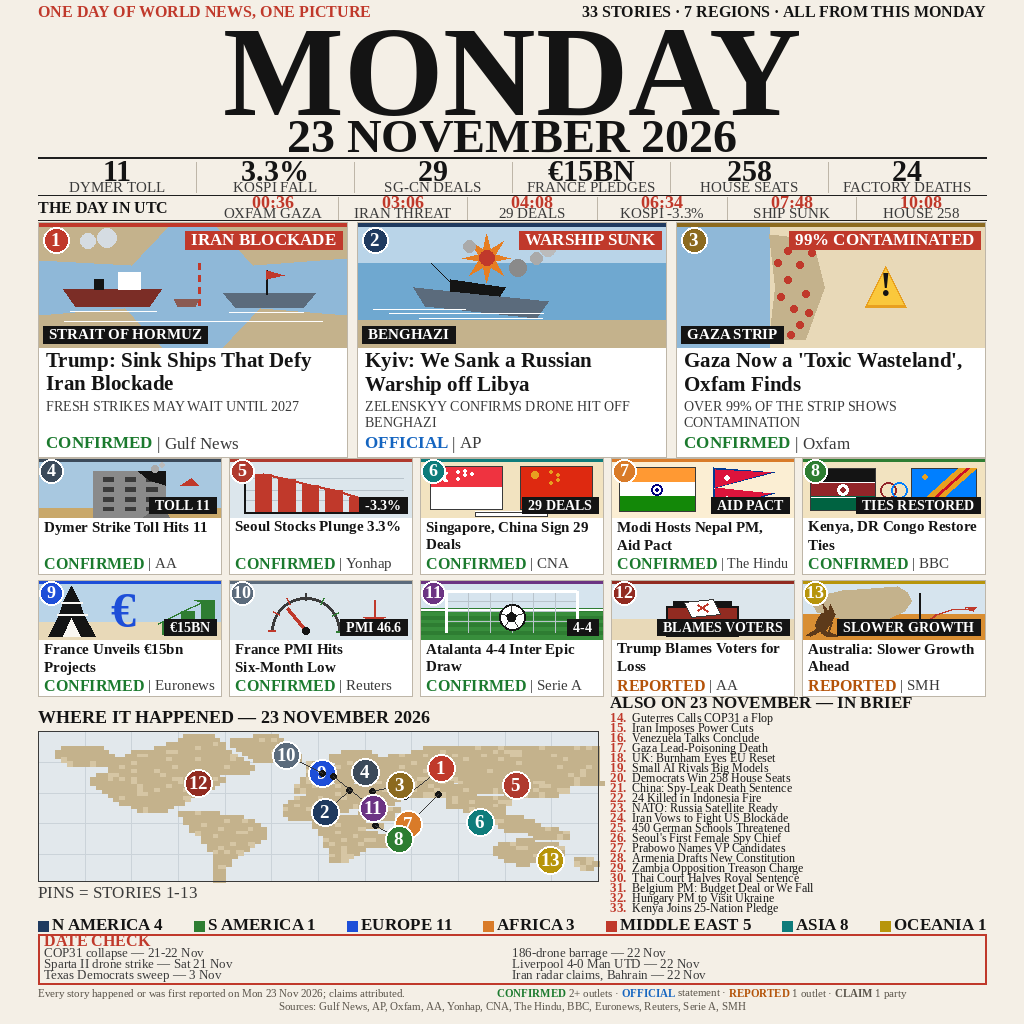
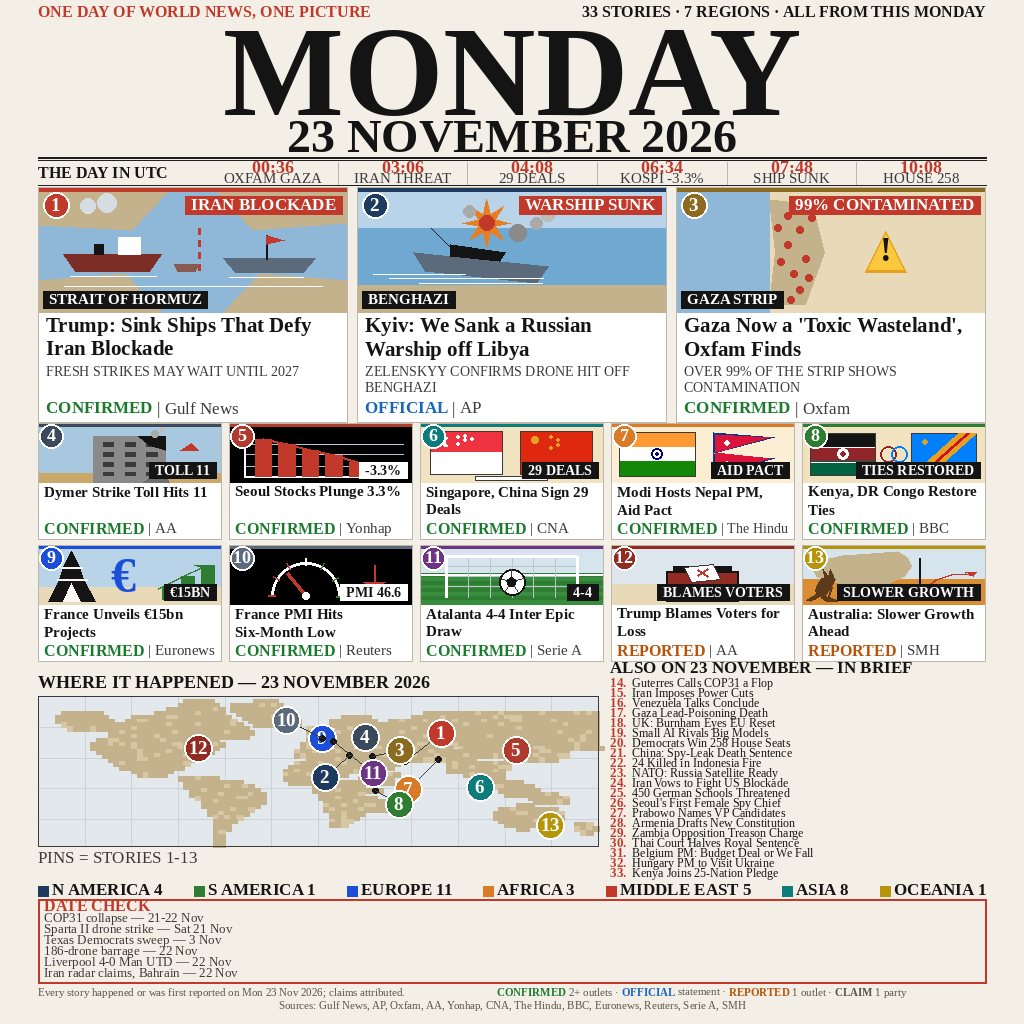
news-image-20261123 v12: DATE CHECK one column, KPI strip removed, black Seoul/PMI scenes
(1) DATE CHECK one column, 6 rows (John 22:34 WIB — 'Satu kolom, 6 baris'):
the 2-column split was my reading of his 22:10 'rapikan' order; he asked
why it was split, so it goes back to a single list. Box 50 -> 84.
(2) KPI strip removed (John 22:34 WIB — 'Kita cukup pakai the day aja,
hapus yang dibawah 23 november 2026'): the 6 big numbers + labels below
'23 NOVEMBER 2026' are gone; masthead stays, timeline moves up to sit
directly below the masthead rule. The 6 numbers still appear as art value
chips + in headlines. Freed 34px + 1px gap exactly funds the DATE CHECK
growth; map/ALSO zone stays 219; bottom 1014 -> 1013.
(3) Seoul (card 5) + France PMI (card 10) scene backgrounds BLACK
(John 22:33 WIB): dark elements flip to white (axis, gauge arc, ticks,
centre disc); red bars / downtrend line / needle stay red; value chips
invert to white chips with dark text.

diff --git a/render.py b/render.py
@@ -1,27 +1,37 @@
-# news-image-20261123 v11 — "The World in One Day", footer + DATE CHECK +
-# colour (John's orders 22:09–22:16 WIB, approved to build 22:23 WIB).
+# news-image-20261123 v12 — "The World in One Day", DATE CHECK one column +
+# KPI strip removed + black Seoul/PMI scenes (John's orders 22:33–22:34 WIB).
 #
-# v11 keeps the v7 top-1 pattern (render outside the harness with PIL and a
+# v12 keeps the v7 top-1 pattern (render outside the harness with PIL and a
 # REAL serif font; main.ts only copies entry.png) and the v7 big art (lead
 # art 120px / card 235px, grid art 55px / card 116px, banner + place labels
 # inside the art), plus the v8 typography (headlines Title Case, sublines ALL
-# CAPS, badges coloured per type, sources Title Case) and the v9/v10 DATE
-# CHECK (title just "DATE CHECK", 6 short items). What changes in v11:
-# (1) footer becomes 3 segments on 2 lines — left "Every story happened...",
-# centre legend, right "Sources: ..." (one line is impossible at readable
-# size: the three segments measure 1,675px at 15px vs 948px width);
-# (2) DATE CHECK items become a tidy 2-column x 3-row grid (v10's 3 run-on
-# rows overflowed ~3px past the box); (3) legend descriptors lowercase
-# ("CONFIRMED 2+ outlets ..."), only badge words caps; (4) footer sits 5px
-# below the DATE CHECK red border (v10's legend was ~3px below it);
-# (5) legend badge words coloured (CONFIRMED green, OFFICIAL blue, REPORTED
-# amber, same as the card badges); (6) top kicker RED; (7) scenes get
-# colourful backgrounds (Seoul chart proper, kangaroo in Australia, green
-# pitch + goal + ball for the football draw). The stored story data is NOT
-# changed — casing/colour is applied at render time only. Content is the
-# v4/v5/v6/v7 23 Nov set, unchanged: 13 illustrated cards, 20 ALSO, 6 KPIs,
-# UTC timeline, 7-region bar, world map with 13 numbered pins, DATE CHECK.
-# No new research, no changed numbers.
+# CAPS, badges coloured per type, sources Title Case) and the v11 footer
+# (3 segments on 2 lines, legend lowercase + colours, 5px gap below the
+# DATE CHECK red border, red kicker) and v11 scene colours (kangaroo in
+# Australia, green pitch + goal + ball). What changes in v12:
+# (1) DATE CHECK is ONE column of 6 rows (John 22:34 WIB — "Satu kolom,
+# 6 baris"). The 2-column split was my reading of his 22:10 "rapikan"
+# order; he asked why it was split, so it goes back to a single list.
+# The box grows 50 → 84 (6 rows at 13px/11px spacing, last row ends ~y+81,
+# 3px margin — must not overflow, unlike v10's ~3px overflow).
+# (2) The KPI strip is GONE (John 22:34 WIB — "Kita cukup pakai the day
+# aja, hapus yang dibawah 23 november 2026"): the 6 big numbers + labels
+# below "23 NOVEMBER 2026" are deleted; the masthead (MONDAY + date) stays,
+# the timeline moves up to sit directly below the masthead rule. The 6
+# numbers still appear on the page as art value chips + in headlines.
+# Removing the KPI zone frees 34px + its 1px gap = 35px, which exactly
+# funds the DATE CHECK growth (+34px); the map/ALSO zone stays 219 and
+# the bottom moves 1014 → 1013.
+# (3) Seoul (card 5, kospi) and France PMI (card 10, pmi) scene
+# backgrounds are BLACK (John 22:33 WIB — "kasih hitam aja backgroundnya").
+# Dark elements flip to white so they stay readable on black (axis, gauge
+# arc, ticks, centre disc); the red bars / downtrend line / needle stay
+# red; the value chips invert to white chips with dark text (a black chip
+# would vanish on black). The stored story data is NOT changed — casing/
+# colour is applied at render time only. Content is the v4/v5/v6/v7 23 Nov
+# set, unchanged: 13 illustrated cards, 20 ALSO, UTC timeline, 7-region
+# bar, world map with 13 numbered pins, DATE CHECK. No new research, no
+# changed numbers.
 #
 # Deterministic: fixed LCG seed 1337 for the map grain, no randomness, no
 # network, no time dependence. Run: python3 render.py [outdir]
@@ -426,11 +436,13 @@ def draw_scene(d, scene, bx, by, bw, bh, accent):
         # A market in free fall: descending bars, a steep red line, arrow.
         # v11: proper chart — blue-steel panel, gridlines, 6 descending
         # bars, downtrend line with arrowhead (was 4 plain bars on PAPER2).
-        rect(d, bx, by, bw, bh, fill=hx("#DCE6EC"))
+        # v12: BLACK background (John 22:33 WIB); the INK axis becomes
+        # WHITE so it reads on black (bars stay red, gridlines light grey).
+        rect(d, bx, by, bw, bh, fill=hx("#000000"))
         for gy in [0.3, 0.5, 0.7]:
             hline(d, round(X(0.08)), round(Y(gy)), round(bw * 0.88), hx("#B9C4CC"), 1)
-        vline(d, round(X(0.08)), round(Y(0.1)), round(bh * 0.8), INK, 2)
-        hline(d, round(X(0.08)), round(Y(0.9)), round(bw * 0.88), INK, 2)
+        vline(d, round(X(0.08)), round(Y(0.1)), round(bh * 0.8), WHITE, 2)
+        hline(d, round(X(0.08)), round(Y(0.9)), round(bw * 0.88), WHITE, 2)
         tops = []
         for i, bhf in enumerate([0.68, 0.58, 0.48, 0.38, 0.26, 0.14]):
             bx0 = X(0.14 + i * 0.13)
@@ -527,21 +539,24 @@ def draw_scene(d, scene, bx, by, bw, bh, accent):
     elif scene == "pmi":
         # A gauge dial: red low zone left, green high zone right, needle low.
         # v11: blue-steel panel background (was PAPER2).
-        rect(d, bx, by, bw, bh, fill=hx("#DCE6EC"))
+        # v12: BLACK background (John 22:33 WIB); the arc, the neutral
+        # ticks and the centre disc flip from dark to WHITE so they read on
+        # black (red/green ticks and the red needle stay as they are).
+        rect(d, bx, by, bw, bh, fill=hx("#000000"))
         gcx, gcy = X(0.42), Y(0.86)
         gr = bh * 0.62
-        d.arc([gcx - gr, gcy - gr, gcx + gr, gcy + gr], 180, 360, fill=INK2, width=max(2, round(bh * 0.05)))
+        d.arc([gcx - gr, gcy - gr, gcx + gr, gcy + gr], 180, 360, fill=WHITE, width=max(2, round(bh * 0.05)))
         for k in range(7):
             ang = math.pi - (k * math.pi) / 6
             x1 = gcx + math.cos(ang) * (gr - bh * 0.06)
             y1 = gcy - math.sin(ang) * (gr - bh * 0.06)
             x2 = gcx + math.cos(ang) * (gr + bh * 0.06)
             y2 = gcy - math.sin(ang) * (gr + bh * 0.06)
-            col = RED if k <= 2 else (hx("#2E7D32") if k >= 4 else INK2)
+            col = RED if k <= 2 else (hx("#2E7D32") if k >= 4 else WHITE)
             d.line([(x1, y1), (x2, y2)], fill=col, width=2)
         nang = math.pi - (math.pi * 0.28)
         d.line([(gcx, gcy), (gcx + math.cos(nang) * gr * 0.85, gcy - math.sin(nang) * gr * 0.85)], fill=RED, width=max(2, round(bh * 0.05)))
-        disc(d, round(gcx), round(gcy), max(2, bh * 0.07), INK)
+        disc(d, round(gcx), round(gcy), max(2, bh * 0.07), WHITE)
         d.line([(X(0.8), Y(0.3)), (X(0.8), Y(0.66))], fill=RED, width=max(2, round(bh * 0.04)))
         tri(d, X(0.8), Y(0.72), X(0.74), Y(0.6), X(0.86), Y(0.6), RED)
     elif scene == "draw44":
@@ -636,12 +651,12 @@ CARDS = [
     {"n": 2, "headline": "KYIV: WE SANK A RUSSIAN WARSHIP OFF LIBYA", "sub": "ZELENSKYY CONFIRMS DRONE HIT OFF BENGHAZI", "badge": "OFFICIAL", "source": "AP", "scene": "sinking", "accent": hx("#1F3A5F"), "lat": 32.1, "lon": 20.1, "dx": -24, "dy": 22, "banner": "WARSHIP SUNK", "place": "BENGHAZI"},
     {"n": 3, "headline": "GAZA NOW A 'TOXIC WASTELAND', OXFAM FINDS", "sub": "OVER 99% OF THE STRIP SHOWS CONTAMINATION", "badge": "CONFIRMED", "source": "OXFAM", "scene": "gaza", "accent": hx("#8C6A1F"), "lat": 31.5, "lon": 34.5, "dx": 28, "dy": -6, "banner": "99% CONTAMINATED", "place": "GAZA STRIP"},
     {"n": 4, "headline": "DYMER STRIKE TOLL HITS 11", "sub": "RESCUERS STILL SEARCH RUBBLE IN DYMER", "badge": "CONFIRMED", "source": "AA", "scene": "dymer", "accent": hx("#3B4A5A"), "lat": 50.5, "lon": 30.5, "dx": 0, "dy": 0, "value": "TOLL 11"},
-    {"n": 5, "headline": "SEOUL STOCKS PLUNGE 3.3%", "sub": "KOSPI SLIDES AS TECH SELL-OFF SPREADS", "badge": "CONFIRMED", "source": "YONHAP", "scene": "kospi", "accent": hx("#B03A2E"), "lat": 37.5, "lon": 127, "dx": 0, "dy": 0, "value": "-3.3%"},
+    {"n": 5, "headline": "SEOUL STOCKS PLUNGE 3.3%", "sub": "KOSPI SLIDES AS TECH SELL-OFF SPREADS", "badge": "CONFIRMED", "source": "YONHAP", "scene": "kospi", "accent": hx("#B03A2E"), "lat": 37.5, "lon": 127, "dx": 0, "dy": 0, "value": "-3.3%", "dark_art": True},
     {"n": 6, "headline": "SINGAPORE, CHINA SIGN 29 DEALS", "sub": "TOP BILATERAL FORUM YIELDS 29 PACTS", "badge": "CONFIRMED", "source": "CNA", "scene": "deals", "accent": hx("#0E7C7B"), "lat": 1.3, "lon": 104, "dx": 0, "dy": 0, "value": "29 DEALS"},
     {"n": 7, "headline": "MODI HOSTS NEPAL PM, AID PACT", "sub": "RS 15,000-CRORE PACKAGE, NEW TRAIN LINK", "badge": "CONFIRMED", "source": "THE HINDU", "scene": "aid", "accent": hx("#D97B29"), "lat": 28.6, "lon": 77, "dx": -30, "dy": 30, "value": "AID PACT"},
     {"n": 8, "headline": "KENYA, DR CONGO RESTORE TIES", "sub": "RUTO, TSHISEKEDI END YEARS OF TENSION", "badge": "CONFIRMED", "source": "BBC", "scene": "ties", "accent": hx("#2E7D32"), "lat": -1.3, "lon": 36.8, "dx": 24, "dy": 14, "value": "TIES RESTORED"},
     {"n": 9, "headline": "FRANCE UNVEILS \u20ac15BN PROJECTS", "sub": "NEARLY \u20ac15BN PLEDGED AT PARIS SUMMIT", "badge": "CONFIRMED", "source": "EURONEWS", "scene": "france15", "accent": hx("#1D4ED8"), "lat": 48.85, "lon": 2.35, "dx": 0, "dy": 0, "value": "\u20ac15BN"},
-    {"n": 10, "headline": "FRANCE PMI HITS SIX-MONTH LOW", "sub": "SERVICES PMI 46.6; EUROZONE HOLDS STEADY", "badge": "CONFIRMED", "source": "REUTERS", "scene": "pmi", "accent": hx("#5B6B7C"), "lat": 48.85, "lon": 2.35, "dx": -36, "dy": -18, "value": "PMI 46.6"},
+    {"n": 10, "headline": "FRANCE PMI HITS SIX-MONTH LOW", "sub": "SERVICES PMI 46.6; EUROZONE HOLDS STEADY", "badge": "CONFIRMED", "source": "REUTERS", "scene": "pmi", "accent": hx("#5B6B7C"), "lat": 48.85, "lon": 2.35, "dx": -36, "dy": -18, "value": "PMI 46.6", "dark_art": True},
     {"n": 11, "headline": "ATALANTA 4-4 INTER EPIC DRAW", "sub": "EIGHT-GOAL THRILLER IN BERGAMO", "badge": "CONFIRMED", "source": "SERIE A", "scene": "draw44", "accent": hx("#6C3483"), "lat": 45.7, "lon": 9.7, "dx": 40, "dy": 32, "value": "4-4"},
     {"n": 12, "headline": "TRUMP BLAMES VOTERS FOR LOSS", "sub": "SAYS VOTERS IGNORED HIS IRAN WARNINGS", "badge": "REPORTED", "source": "AA", "scene": "voters", "accent": hx("#922B21"), "lat": 38.9, "lon": -77, "dx": 0, "dy": 0, "value": "BLAMES VOTERS"},
     {"n": 13, "headline": "AUSTRALIA: SLOWER GROWTH AHEAD", "sub": "CHALMERS: JOBS, PRICES UNDER PRESSURE", "badge": "REPORTED", "source": "SMH", "scene": "aus", "accent": hx("#B7950B"), "lat": -35.3, "lon": 149, "dx": 0, "dy": 0, "value": "SLOWER GROWTH"},
@@ -672,15 +687,6 @@ ALSO = [
 ]
 ALSO_SOURCES = "ALSO SOURCES: UN NEWS \u00b7 THE NATIONAL \u00b7 AA \u00b7 THE GUARDIAN \u00b7 MIT NEWS \u00b7 AFP \u00b7 SCMP \u00b7 AP \u00b7 REUTERS \u00b7 DAILY NATION \u00b7 SOVEREIGN CREDITOR REVIEW \u00b7 POLIDATO"
 
-# The day in numbers: 6 KPI cells.
-KPIS = [
-    ("11", "DYMER TOLL"),
-    ("3.3%", "KOSPI FALL"),
-    ("29", "SG-CN DEALS"),
-    ("\u20ac15BN", "FRANCE PLEDGES"),
-    ("258", "HOUSE SEATS"),
-    ("24", "FACTORY DEATHS"),
-]
 
 # The day in UTC: six timed moments from the research (UTC times as reported).
 TIMELINE = [
@@ -736,7 +742,7 @@ REGION_COLORS = [hx("#1F3A5F"), hx("#2E7D32"), hx("#1D4ED8"), hx("#D97B29"), hx(
 # ---------------------------------------------------------------- layout
 # GRID first: every zone rect is computed here, then the render pass reads
 # the layout only. v8 budget: the lead cards are 235 tall (art 120) and the
-# grid cards 116 (art 55), so the masthead/KPI/timeline are slightly
+# grid cards 116 (art 55), so the masthead/timeline are slightly
 # smaller, the map is 150 tall and the ALSO list runs at 12px. The masthead
 # zone is 157 tall so MONDAY has ~13px of breathing room below the kicker
 # line (v8 fix); the top margin is 6 and the gaps are 1 to pay for it. The
@@ -745,21 +751,21 @@ REGION_COLORS = [hx("#1F3A5F"), hx("#2E7D32"), hx("#1D4ED8"), hx("#D97B29"), hx(
 # count it stated is already in the top kicker, so the line was redundant.
 # The freed 12px move from the KPI zone (46 → 34) to the masthead zone
 # (157 → 169) for more breathing room; the page still ends at y=1014.
-# v11 budget: the footer needs 2 lines (25 tall) and the DATE CHECK grid
-# needs 50, so the page pays from the masthead (169 → 155; its content ends
-# at y+153, so the bottom rule sits 2px above the zone end — the 13px
-# breathing room ABOVE is untouched), the top margin (6 → 4), the grid row
-# gap (8 → 6), the map/ALSO zone (220 → 219; last ALSO item ends y+218),
-# the region bar (18 → 16; text ends ~y+14), and the footer gap is an
-# explicit y += 5 (5px below the DATE CHECK red border, John 22:12).
-# Recount: 4 + 155+1 + 34+1 + 26+1 + 235+1 + 238+1 + 219+1 + 16+1 + 50+5
-# + 25 = bottom 1014. If the budget ever overflows, main() raises instead
-# of clipping.
+# v12 budget: the KPI strip is GONE (John 22:34 WIB — "Kita cukup pakai
+# the day aja, hapus yang dibawah 23 november 2026"), so the timeline moves
+# up to sit directly below the masthead rule. Removing the KPI zone frees
+# 34px + its 1px gap = 35px; the DATE CHECK one-column box takes +34px
+# (50 → 84, 6 rows at 13px/11px spacing, last row ends ~y+81, 3px margin),
+# so the map/ALSO zone stays 219 and the bottom moves 1014 → 1013.
+# Recount: 4 + 155+1 + 26+1 + 235+1 + 238+1 + 219+1 + 16+1 + 84+5
+# + 25 = bottom 1013 (≤ 1016). If the budget ever overflows, main() raises
+# instead of clipping.
 def build_layout():
     y = 4
     gap = 1
     masthead = (MARGIN, y, CW, 155); y += 155 + gap
-    kpi = (MARGIN, y, CW, 34); y += 34 + gap
+    # v12: no KPI strip (John 22:34 WIB) — the timeline sits directly
+    # below the masthead rule.
     timeline = (MARGIN, y, CW, 26); y += 26 + gap
     lead_w = (CW - 2 * 10) // 3
     leads = [(MARGIN + i * (lead_w + 10), y, lead_w, 235) for i in range(3)]
@@ -774,10 +780,10 @@ def build_layout():
     also_zone = (MARGIN + 560 + 12, y, CW - 560 - 12, 219)
     y += 219 + gap
     region = (MARGIN, y, CW, 16); y += 16 + gap
-    datecheck = (MARGIN, y, CW, 50); y += 50 + 5
+    datecheck = (MARGIN, y, CW, 84); y += 84 + 5
     footer = (MARGIN, y, CW, 25)
     bottom = y + 25
-    return {"masthead": masthead, "kpi": kpi, "timeline": timeline, "leads": leads,
+    return {"masthead": masthead, "timeline": timeline, "leads": leads,
             "grid": grid, "map_zone": map_zone, "also_zone": also_zone,
             "region": region, "datecheck": datecheck, "footer": footer, "bottom": bottom}
 
@@ -796,18 +802,6 @@ def render_masthead(d, z):
     text_c(d, MARGIN + CW / 2, dy, "23 NOVEMBER 2026", fb(dsize), INK)
     dcap = dsize * 0.688
     hline(d, x, dy + dcap + 3, w, RULE, 2)
-
-def render_kpi(d, z):
-    x, y, w, h = z
-    # v9: the heading line is gone (redundant with the top kicker). Only the
-    # 6 numbers + their labels remain, shifted up into the freed space.
-    cell_w = CW / len(KPIS)
-    for i, (value, label) in enumerate(KPIS):
-        cx = MARGIN + i * cell_w + cell_w / 2
-        if i > 0:
-            vline(d, round(MARGIN + i * cell_w), y + 2, 30, CARD_LINE, 1)
-        text_c(d, cx, y + 1, value, fb(30), INK)
-        text_c(d, cx, y + 22, label, fr(15), INK2)
 
 def render_timeline(d, z):
     x, y, w, h = z
@@ -892,8 +886,14 @@ def render_grid_card(d, z, card):
     ax, ay, aw, ah = x + 1, y + 4, w - 2, 55
     draw_scene(d, card["scene"], ax, ay, aw, ah, card["accent"])
     # Value chip, bottom-right of the art (top-1's "$60,190" / "M6.7" style).
+    # v12: on a black art background (Seoul, France PMI — dark_art) the chip
+    # inverts to a white chip with dark text; a black chip would vanish on
+    # black.
     vf = fb(14)
-    chip(d, ax + aw - 4 - chip_w(card["value"], vf), ay + ah - 4 - chip_h(vf), card["value"], vf, WHITE, INK)
+    if card.get("dark_art"):
+        chip(d, ax + aw - 4 - chip_w(card["value"], vf), ay + ah - 4 - chip_h(vf), card["value"], vf, INK, WHITE)
+    else:
+        chip(d, ax + aw - 4 - chip_w(card["value"], vf), ay + ah - 4 - chip_h(vf), card["value"], vf, WHITE, INK)
     disc(d, x + 13, y + 13, 12, card["accent"])
     ring(d, x + 13, y + 13, 12, WHITE, 2)
     text_c(d, x + 13, y + 6, str(card["n"]), fb(18), WHITE)
@@ -975,15 +975,14 @@ def render_datecheck(d, z):
     # The 6 short past-date items stay; no explanatory paragraph in the
     # reference's long style (explicitly NOT wanted).
     text(d, x + 6, y + 1, "DATE CHECK", fb(16), RED)
-    # v11: tidy 2-column x 3-row grid (John 22:10 WIB). v10's 3 run-on rows
-    # joined by "·" were messy and row 3 overflowed ~3px past the box.
-    # Column 1 = items 1-3, column 2 = items 4-6; last row ends ~y+48, box
-    # ends y+50 (2px margin — must not overflow).
-    col2_x = x + w // 2
-    for r in range(3):
+    # v12: one column, 6 rows (John 22:34 WIB — "Satu kolom, 6 baris").
+    # The 2-column split was my reading of his 22:10 "rapikan" order; he
+    # asked why it was split, so it goes back to a single list. Rows at
+    # y+14 + r*11; last row ends ~y+81, box ends y+84 (3px margin — must
+    # not overflow, unlike v10's ~3px overflow).
+    for r in range(6):
         ty = y + 14 + r * 11
         text(d, x + 6, ty, sentence_case(LEFT_OUT[r]), fr(13), INK2)
-        text(d, col2_x, ty, sentence_case(LEFT_OUT[r + 3]), fr(13), INK2)
 
 def render_footer(d, z):
     x, y, w, h = z
@@ -1013,8 +1012,6 @@ def main():
         raise RuntimeError(f"expected 13 cards, got {len(CARDS)}")
     if len(ALSO) != 20:
         raise RuntimeError(f"expected 20 ALSO items, got {len(ALSO)}")
-    if len(KPIS) != 6:
-        raise RuntimeError(f"expected 6 KPIs, got {len(KPIS)}")
     if len(TIMELINE) != 6:
         raise RuntimeError(f"expected 6 timeline ticks, got {len(TIMELINE)}")
     if sum(c for _, c in REGIONS) != len(CARDS) + len(ALSO):
@@ -1026,7 +1023,6 @@ def main():
     img = Image.new("RGB", (W, H), PAPER)
     d = ImageDraw.Draw(img)
     render_masthead(d, layout["masthead"])
-    render_kpi(d, layout["kpi"])
     render_timeline(d, layout["timeline"])
     for i in range(3):
         render_lead_card(d, layout["leads"][i], CARDS[i])
